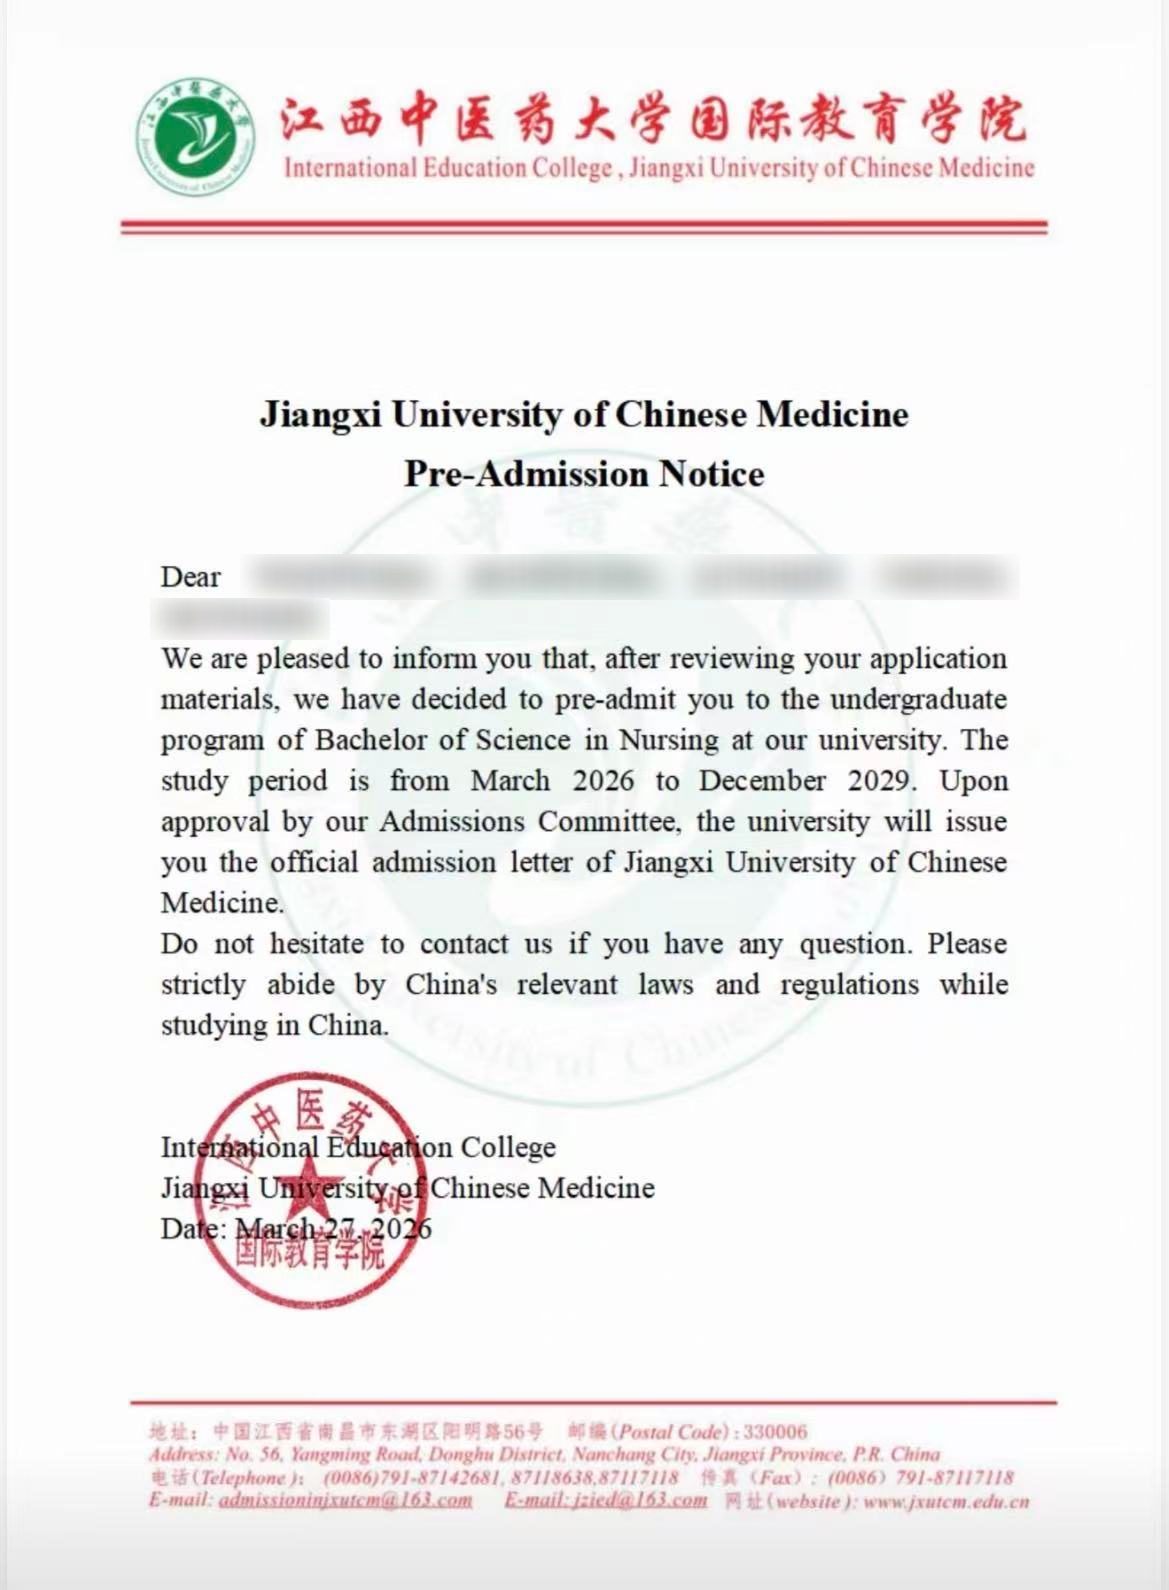
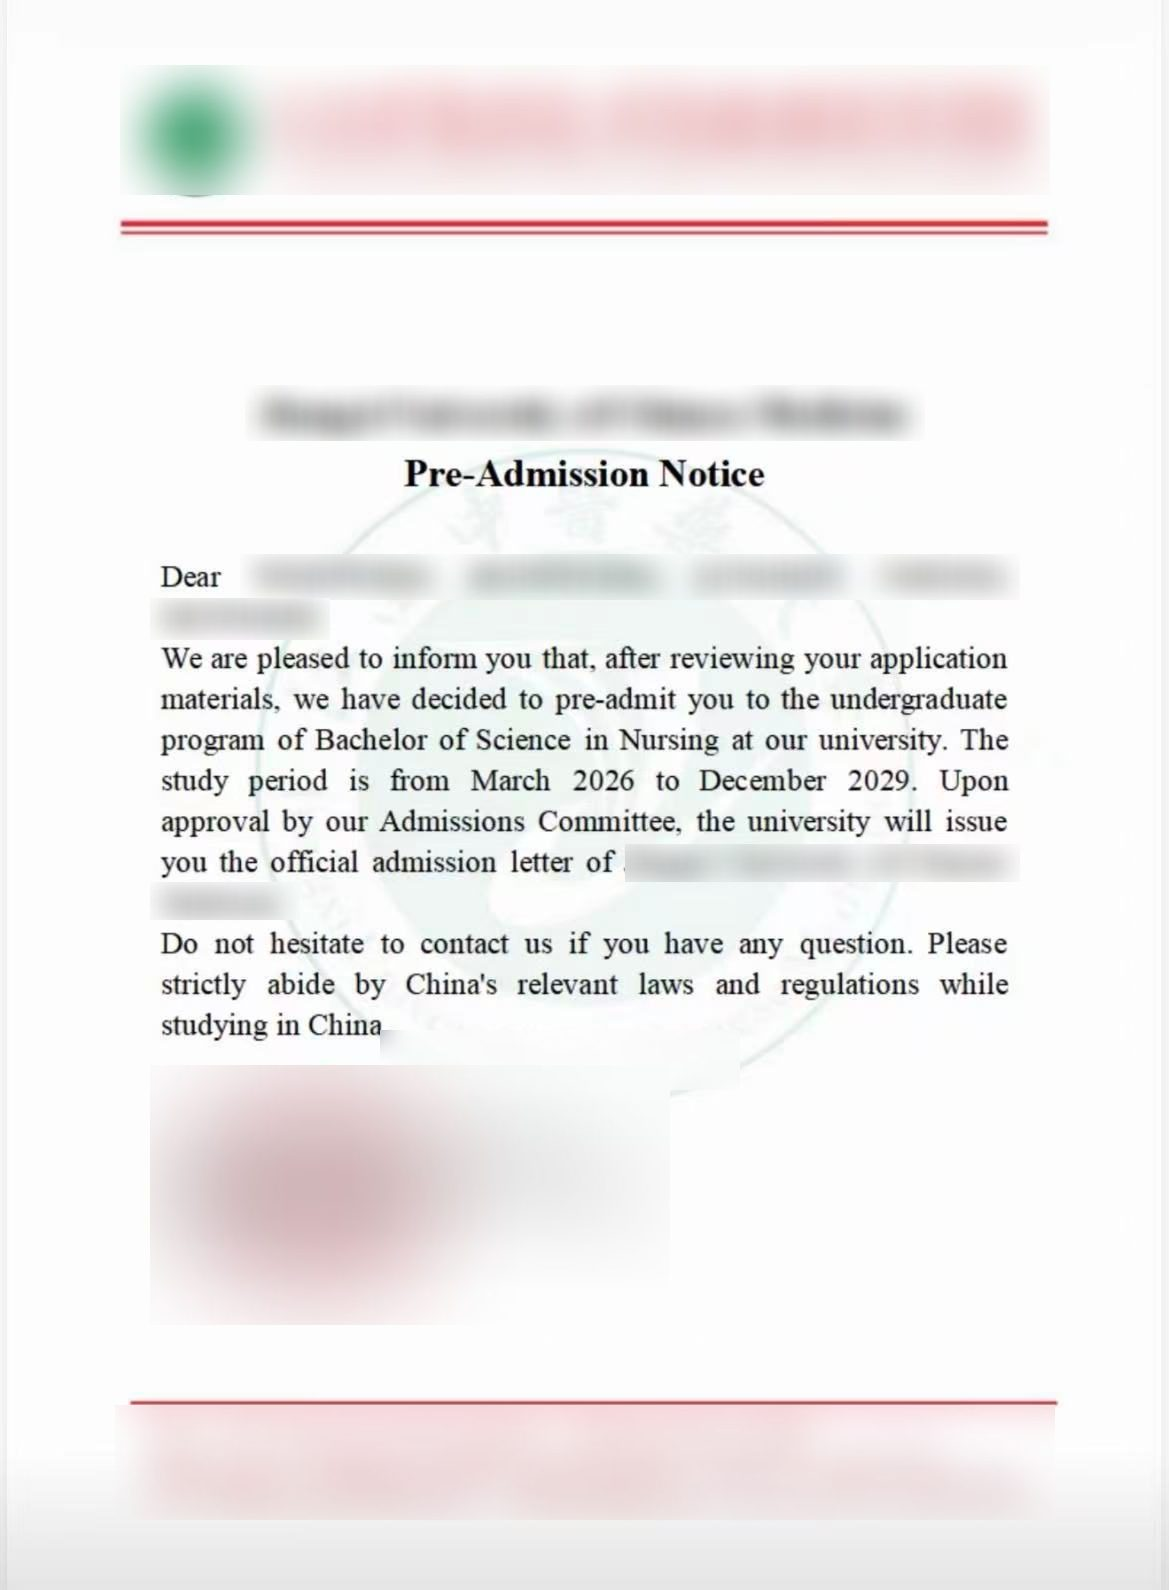
Hide school names and countries on admission letters; add Master's letter
Blur letterheads, seals, school mentions, footers and student nationality on
every letter, and remove university and country names from the page copy.
Add a sixth letter (Master's with full tuition waiver), whitening its
background watermark before blurring.

diff --git a/index.html b/index.html
@@ -250,16 +250,16 @@
     </div>
   </div>
 
-  <!-- University strip -->
+  <!-- Recent admissions strip -->
   <div class="relative z-10 border-t border-white/10 bg-navy-deep/40">
     <div class="max-w-page mx-auto px-5 md:px-8 py-6 flex flex-col md:flex-row md:items-center gap-3 md:gap-8">
-      <p class="text-xs tracking-[0.18em] uppercase text-white/50 shrink-0">Recent admissions to</p>
+      <p class="text-xs tracking-[0.18em] uppercase text-white/50 shrink-0">Recent admissions in</p>
       <ul class="flex flex-col md:flex-row md:flex-wrap gap-x-6 gap-y-1.5 font-display text-white/90 text-lg">
-        <li>Jilin University</li>
+        <li>Bachelor of Nursing</li>
         <li class="hidden md:block text-gold-light/60" aria-hidden="true">/</li>
-        <li>Jinggangshan University</li>
+        <li>Pre-university program</li>
         <li class="hidden md:block text-gold-light/60" aria-hidden="true">/</li>
-        <li>Jiangxi University of Chinese Medicine</li>
+        <li>Chinese Language</li>
       </ul>
     </div>
   </div>
@@ -491,70 +491,84 @@
     <div class="reveal max-w-2xl">
       <p class="text-gold-light text-xs md:text-sm font-semibold tracking-[0.18em] uppercase">Testimonials</p>
       <h2 class="font-display text-4xl md:text-5xl mt-4">Admission letters our students received</h2>
-      <p class="mt-5 text-white/70 text-lg">Each of these letters was issued to a student we worked with. Names and passport numbers are blurred to protect their privacy. Tap a letter to view it.</p>
+      <p class="mt-5 text-white/70 text-lg">Each of these letters was issued to a student we worked with. Student names, countries and university details are blurred to protect their privacy. Tap a letter to view it.</p>
     </div>
 
     <ul class="mt-12 grid grid-cols-2 lg:grid-cols-3 gap-x-4 gap-y-8 md:gap-8" id="proofs">
       <li class="reveal">
         <button class="proof-card group w-full text-left" data-index="0">
           <span class="relative block rounded-2xl overflow-hidden bg-white shadow-3 aspect-[3/4]">
-            <img src="images/blurred/proof1.jpg" alt="Pre-admission notice from Jilin University" class="w-full h-full object-cover object-top" loading="lazy">
+            <img src="images/blurred/proof5.jpg" alt="Admission notice for a Master's in Computer Technology with a full tuition scholarship" class="w-full h-full object-cover object-top" loading="lazy">
             <span class="absolute inset-0 bg-gradient-to-t from-black/60 via-transparent to-transparent"></span>
+            <span class="absolute top-3 left-3 rounded-full bg-gold text-navy-deep text-[0.65rem] sm:text-xs font-bold px-2.5 py-1 shadow-1">100% tuition waiver</span>
             <span class="zoom absolute top-3 right-3 w-10 h-10 rounded-full bg-white/95 text-navy grid place-items-center shadow-1"><svg class="w-5 h-5" viewBox="0 0 24 24" fill="none" stroke="currentColor" stroke-width="2"><circle cx="11" cy="11" r="7"/><path d="m20 20-3.5-3.5M11 8v6M8 11h6"/></svg></span>
           </span>
-          <span class="block mt-3 sm:mt-4 font-display text-base sm:text-xl">Jilin University</span>
-          <span class="block mt-1 text-white/60 text-xs sm:text-sm leading-snug">Pre-university program · Côte d'Ivoire</span>
+          <span class="block mt-3 sm:mt-4 font-display text-base sm:text-xl">Master's, Computer Technology</span>
+          <span class="block mt-1 text-white/60 text-xs sm:text-sm leading-snug">Admission notice · Fall 2026</span>
         </button>
       </li>
       <li class="reveal">
         <button class="proof-card group w-full text-left" data-index="1">
           <span class="relative block rounded-2xl overflow-hidden bg-white shadow-3 aspect-[3/4]">
-            <img src="images/blurred/proof2.jpg" alt="Pre-admission notice from Jiangxi University of Chinese Medicine" class="w-full h-full object-cover object-top" loading="lazy">
+            <img src="images/blurred/proof1.jpg" alt="Pre-admission notice for a pre-university program" class="w-full h-full object-cover object-top" loading="lazy">
             <span class="absolute inset-0 bg-gradient-to-t from-black/60 via-transparent to-transparent"></span>
             <span class="zoom absolute top-3 right-3 w-10 h-10 rounded-full bg-white/95 text-navy grid place-items-center shadow-1"><svg class="w-5 h-5" viewBox="0 0 24 24" fill="none" stroke="currentColor" stroke-width="2"><circle cx="11" cy="11" r="7"/><path d="m20 20-3.5-3.5M11 8v6M8 11h6"/></svg></span>
           </span>
-          <span class="block mt-3 sm:mt-4 font-display text-base sm:text-xl">Jiangxi University of Chinese Medicine</span>
-          <span class="block mt-1 text-white/60 text-xs sm:text-sm leading-snug">B.Sc. Nursing</span>
+          <span class="block mt-3 sm:mt-4 font-display text-base sm:text-xl">Pre-university + Chinese</span>
+          <span class="block mt-1 text-white/60 text-xs sm:text-sm leading-snug">Pre-admission notice · 2026</span>
         </button>
       </li>
       <li class="reveal">
         <button class="proof-card group w-full text-left" data-index="2">
           <span class="relative block rounded-2xl overflow-hidden bg-white shadow-3 aspect-[3/4]">
-            <img src="images/blurred/proof.jpg" alt="Admission letter from Jinggangshan University" class="w-full h-full object-cover object-top" loading="lazy">
+            <img src="images/blurred/proof2.jpg" alt="Pre-admission notice for a Bachelor of Nursing" class="w-full h-full object-cover object-top" loading="lazy">
             <span class="absolute inset-0 bg-gradient-to-t from-black/60 via-transparent to-transparent"></span>
             <span class="zoom absolute top-3 right-3 w-10 h-10 rounded-full bg-white/95 text-navy grid place-items-center shadow-1"><svg class="w-5 h-5" viewBox="0 0 24 24" fill="none" stroke="currentColor" stroke-width="2"><circle cx="11" cy="11" r="7"/><path d="m20 20-3.5-3.5M11 8v6M8 11h6"/></svg></span>
           </span>
-          <span class="block mt-3 sm:mt-4 font-display text-base sm:text-xl">Jinggangshan University</span>
-          <span class="block mt-1 text-white/60 text-xs sm:text-sm leading-snug">Nursing · Pakistan</span>
+          <span class="block mt-3 sm:mt-4 font-display text-base sm:text-xl">B.Sc. Nursing</span>
+          <span class="block mt-1 text-white/60 text-xs sm:text-sm leading-snug">Pre-admission notice · 2026</span>
         </button>
       </li>
       <li class="reveal">
         <button class="proof-card group w-full text-left" data-index="3">
           <span class="relative block rounded-2xl overflow-hidden bg-white shadow-3 aspect-[3/4]">
-            <img src="images/blurred/proof3.jpg" alt="Admission letter from Jinggangshan University" class="w-full h-full object-cover object-top" loading="lazy">
+            <img src="images/blurred/proof.jpg" alt="Admission letter for a four-year nursing program" class="w-full h-full object-cover object-top" loading="lazy">
             <span class="absolute inset-0 bg-gradient-to-t from-black/60 via-transparent to-transparent"></span>
             <span class="zoom absolute top-3 right-3 w-10 h-10 rounded-full bg-white/95 text-navy grid place-items-center shadow-1"><svg class="w-5 h-5" viewBox="0 0 24 24" fill="none" stroke="currentColor" stroke-width="2"><circle cx="11" cy="11" r="7"/><path d="m20 20-3.5-3.5M11 8v6M8 11h6"/></svg></span>
           </span>
-          <span class="block mt-3 sm:mt-4 font-display text-base sm:text-xl">Jinggangshan University</span>
-          <span class="block mt-1 text-white/60 text-xs sm:text-sm leading-snug">Nursing · Liberia</span>
+          <span class="block mt-3 sm:mt-4 font-display text-base sm:text-xl">Nursing, 4 years</span>
+          <span class="block mt-1 text-white/60 text-xs sm:text-sm leading-snug">Admission letter · 2026</span>
         </button>
       </li>
       <li class="reveal">
         <button class="proof-card group w-full text-left" data-index="4">
           <span class="relative block rounded-2xl overflow-hidden bg-white shadow-3 aspect-[3/4]">
-            <img src="images/blurred/proof4.jpg" alt="Admission letter from Jinggangshan University" class="w-full h-full object-cover object-top" loading="lazy">
+            <img src="images/blurred/proof3.jpg" alt="Admission letter for a four-year nursing program" class="w-full h-full object-cover object-top" loading="lazy">
             <span class="absolute inset-0 bg-gradient-to-t from-black/60 via-transparent to-transparent"></span>
             <span class="zoom absolute top-3 right-3 w-10 h-10 rounded-full bg-white/95 text-navy grid place-items-center shadow-1"><svg class="w-5 h-5" viewBox="0 0 24 24" fill="none" stroke="currentColor" stroke-width="2"><circle cx="11" cy="11" r="7"/><path d="m20 20-3.5-3.5M11 8v6M8 11h6"/></svg></span>
           </span>
-          <span class="block mt-3 sm:mt-4 font-display text-base sm:text-xl">Jinggangshan University</span>
-          <span class="block mt-1 text-white/60 text-xs sm:text-sm leading-snug">Nursing · Rwanda</span>
+          <span class="block mt-3 sm:mt-4 font-display text-base sm:text-xl">Nursing, 4 years</span>
+          <span class="block mt-1 text-white/60 text-xs sm:text-sm leading-snug">Admission letter · 2026</span>
         </button>
       </li>
       <li class="reveal">
-        <a href="https://wa.me/0000000000" class="btn flex flex-col justify-end h-full rounded-2xl border border-dashed border-gold-light/40 p-4 sm:p-6 md:p-8 hover:bg-white/5">
-          <span class="font-display text-xl sm:text-3xl text-gold-light leading-tight">Your letter could be next.</span>
-          <span class="mt-3 text-white/70 text-sm sm:text-base leading-snug">Send us your results and we'll tell you where you can apply.</span>
-          <span class="mt-6 inline-flex items-center gap-2 font-semibold">Chat on WhatsApp <span aria-hidden="true">→</span></span>
+        <button class="proof-card group w-full text-left" data-index="5">
+          <span class="relative block rounded-2xl overflow-hidden bg-white shadow-3 aspect-[3/4]">
+            <img src="images/blurred/proof4.jpg" alt="Admission letter for a four-year nursing program" class="w-full h-full object-cover object-top" loading="lazy">
+            <span class="absolute inset-0 bg-gradient-to-t from-black/60 via-transparent to-transparent"></span>
+            <span class="zoom absolute top-3 right-3 w-10 h-10 rounded-full bg-white/95 text-navy grid place-items-center shadow-1"><svg class="w-5 h-5" viewBox="0 0 24 24" fill="none" stroke="currentColor" stroke-width="2"><circle cx="11" cy="11" r="7"/><path d="m20 20-3.5-3.5M11 8v6M8 11h6"/></svg></span>
+          </span>
+          <span class="block mt-3 sm:mt-4 font-display text-base sm:text-xl">Nursing, 4 years</span>
+          <span class="block mt-1 text-white/60 text-xs sm:text-sm leading-snug">Admission letter · 2026</span>
+        </button>
+      </li>
+      <li class="reveal col-span-2 lg:col-span-3">
+        <a href="https://wa.me/0000000000" class="btn flex flex-col md:flex-row md:items-center md:justify-between gap-4 md:gap-8 rounded-2xl border border-dashed border-gold-light/40 p-6 md:p-8 hover:bg-white/5">
+          <span>
+            <span class="block font-display text-2xl sm:text-3xl text-gold-light leading-tight">Your letter could be next.</span>
+            <span class="block mt-2 text-white/70 text-sm sm:text-base leading-snug">Send us your results and we'll tell you where you can apply.</span>
+          </span>
+          <span class="inline-flex items-center justify-center gap-2 rounded-full bg-gold text-navy-deep font-semibold px-6 py-3.5 shrink-0">Chat on WhatsApp <span aria-hidden="true">→</span></span>
         </a>
       </li>
     </ul>
